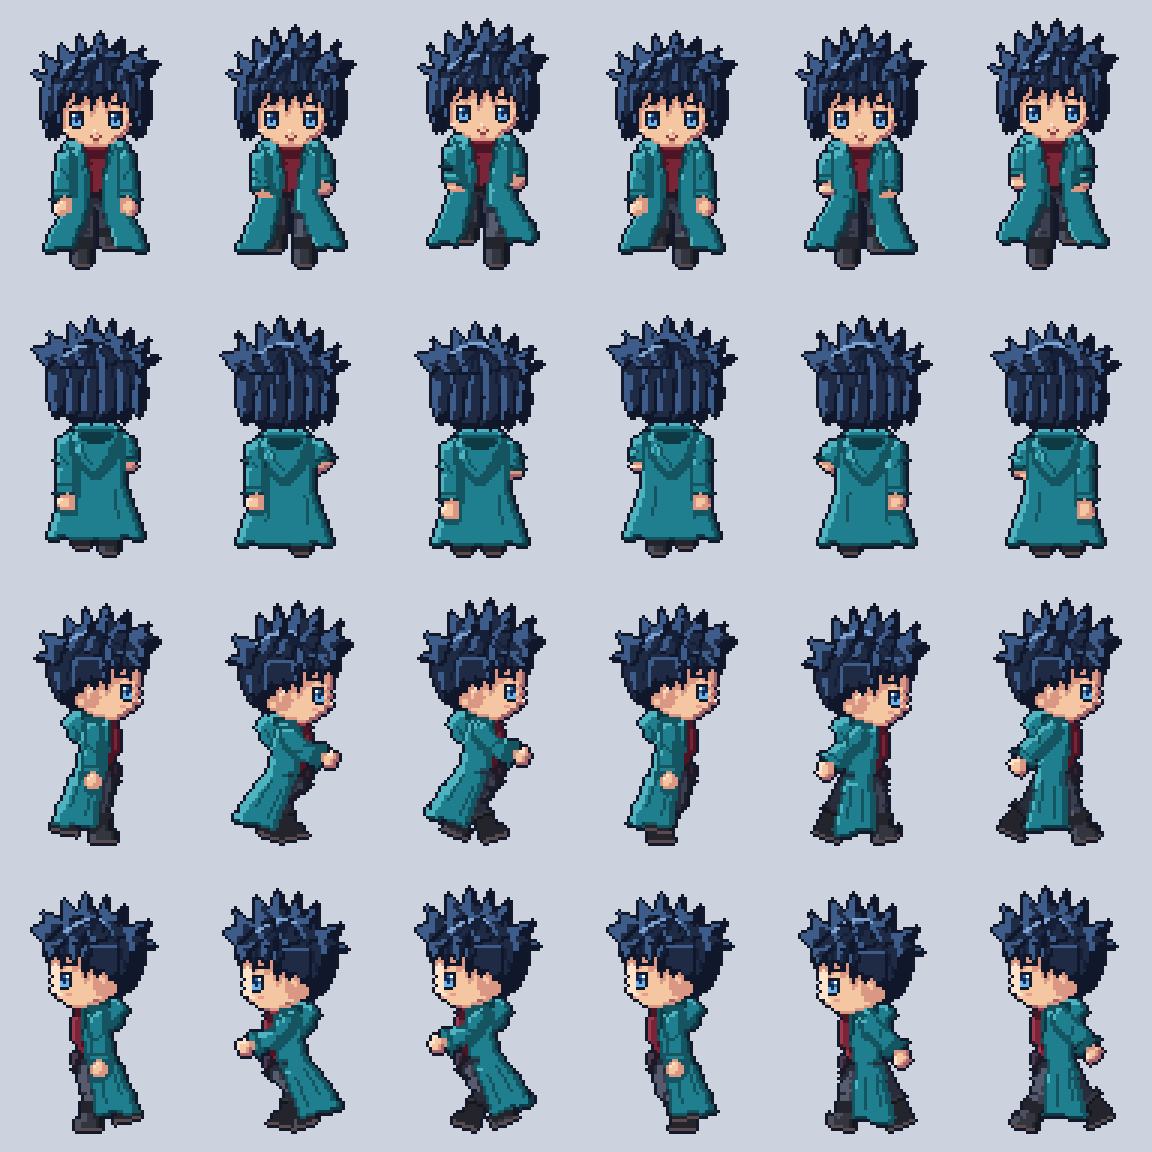
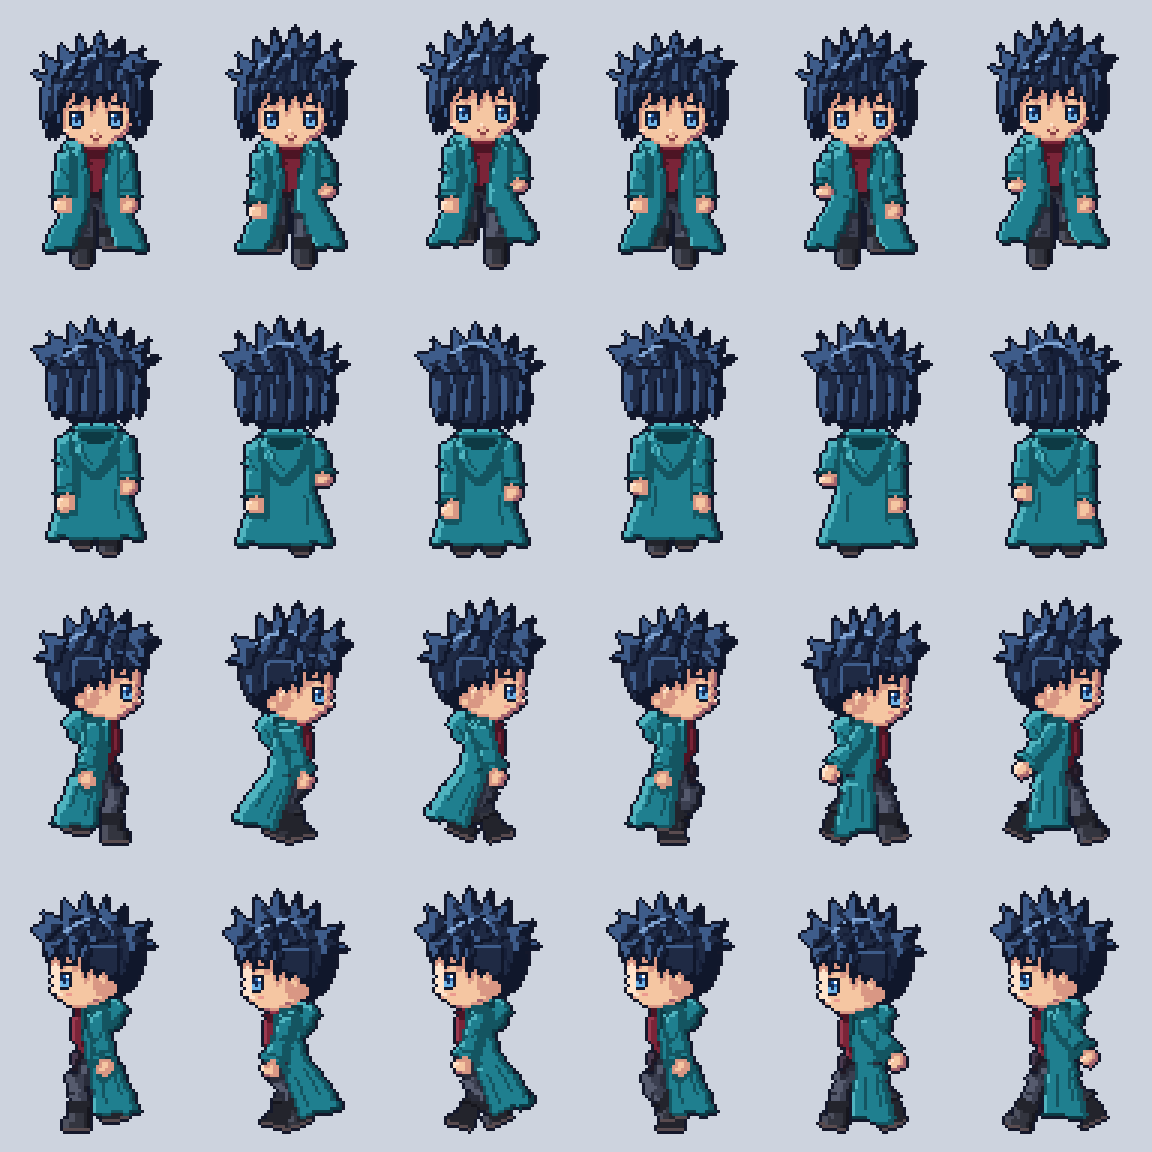
Caminhada C: pernas centradas sob o tronco de lado e braço pendendo com balanço menor
Claude-Session: https://claude.ai/code/session_013vLqrVyPBNyjBLYS91kN9N

diff --git a/public/pixelHero.js b/public/pixelHero.js
@@ -685,11 +685,10 @@ export function skeletonFrame(view, anim, t) {
   const mirror = view === 'esquerda';
   const v = mirror ? 'direita' : view;
   const yaw = YAW_OF_DIR[{ frente: 0, costas: 3, direita: 2 }[v]];
-  // Caminhada: o balanço dos braços do esqueleto é curto para um boneco deste tamanho; aqui ele é 1,8x maior, para a
-  // mão que vai para a frente e a que vai para trás se lerem (o cotovelo dobra mais na que vem para a frente).
+  // Caminhada: balanço dos braços 1,3x o do esqueleto, com o braço quase reto (pendendo do ombro, sem "bengala").
   // De costas, a caminhada é amostrada meio quadro adiante: em t = 1/6 e 2/6 a vista saía quase igual (quadro repetido).
   const pose1 = anim ? poseOf(anim, anim === 'andar' && v === 'costas' ? t + 1 / 12 : t) : basePose();
-  if (anim === 'andar') for (const a of ['armL', 'armR']) pose1[a] = { ...pose1[a], fwd: pose1[a].fwd * 1.8, elbow: pose1[a].elbow + Math.max(0, pose1[a].fwd) * 0.6 };
+  if (anim === 'andar') for (const a of ['armL', 'armR']) pose1[a] = { ...pose1[a], fwd: pose1[a].fwd * 1.3, elbow: 0.2 };
   const R0 = solve(basePose(), yaw), R1 = solve(pose1, yaw);
   const P0 = R0.P, P1 = R1.P;
   const piv = PIVOTS[v];
@@ -746,6 +745,14 @@ export function skeletonFrame(view, anim, t) {
     const atras = v !== 'direita' && P1[`elbow${S}`][2] < P1.chest[2] - 1.5;
     X.lados[k] = { braco, mao, coxa, canela, pe, aba, joelhoY: J.joelho[1], cotoveloY: J.cotovelo[1], atras,
       juntas: [ombro2, cot2, fwd(mao, J.pulso), quad2, joe2, tor2, fwd(pe, J.ponta)] };
+  }
+  // De lado, as pernas ficam centradas sob o tronco: a média dos dois tornozelos volta para baixo do quadril (o
+  // esqueleto deixava as duas pernas para trás do corpo em parte do passo).
+  if (v === 'direita' && anim === 'andar') {
+    const ks = Object.keys(X.lados);
+    const avg = ks.reduce((a, k) => a + fwd(X.lados[k].canela, piv[k].tornozelo)[0] - piv[k].tornozelo[0], 0) / ks.length;
+    for (const k of ks) for (const n of ['coxa', 'canela', 'pe']) { const q = X.lados[k][n]; X.lados[k][n] = T([q.o[0] - avg, q.o[1]], q.M, q.c); }
+    for (const k of ks) { const j = X.lados[k].juntas; for (let i = 3; i < j.length; i++) j[i] = [j[i][0] - avg, j[i][1]]; }
   }
   X.ar = Math.round(((R1.pose.air || 0) * SK)); // px no ar (os dois pés fora do chão)
   X.mirror = mirror;
